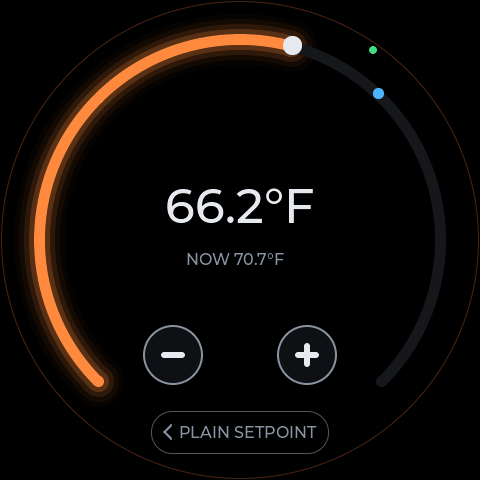
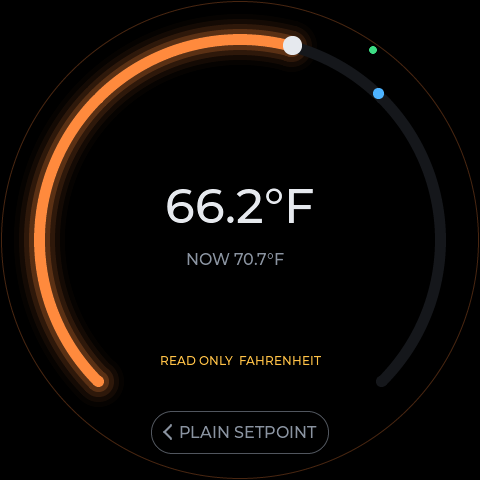
Screenshots: Lights with blinds/lock/contact/smoke/push tiles, thermostat mode and Fahrenheit setpoint shown read-only; confirm_mode demo dropped (the mode has no MCP tool)

Changed region(s): [[0.5, 0.6562, 0.7188, 0.8125], [0.2812, 0.6562, 0.4688, 0.8125]]

diff --git a/sim/src/apps_demo.c b/sim/src/apps_demo.c
@@ -168,7 +168,7 @@ const char *const apps_demo_names[] = {
   "climate_temp_f", "climate_wind_f", "climate_nounits", "climate_stale",
   "detail_climate_wind", "detail_thermo6", "detail_setpoint_plan", "detail_setpoint_nonow", "detail_radiator", "detail_evohome",
   "detail_mode", "detail_setpoint_f", "detail_setpoint_nounits",
-  "confirm_setpoint", "confirm_mode",
+  "confirm_setpoint",
   "detail_onoff", "detail_dimmer", "detail_selector", "detail_blinds", "detail_thermo", "detail_lock", "detail_push", "detail_info",
   "confirm_scene", "confirm_group_mixed", "confirm_lock",
   "fb_pending", "fb_confirmed", "fb_unconfirmed", "fb_failed",
@@ -206,8 +206,7 @@ static appfx_set_t set_for(const char *n) {
   if (!strcmp(n, "home_climate_f") || !strcmp(n, "climate_temp_f") || !strcmp(n, "climate_wind_f") || !strcmp(n, "detail_setpoint_f")) return APPFX_CLIMATE_IMPERIAL;
   if (!strcmp(n, "climate_nounits") || !strcmp(n, "detail_setpoint_nounits")) return APPFX_CLIMATE_NOUNITS;
   if (!strcmp(n, "home_climate") || !strncmp(n, "climate_", 8) || !strcmp(n, "detail_climate_wind") || !strcmp(n, "detail_thermo6") || !strncmp(n, "detail_setpoint", 15) ||
-      !strcmp(n, "detail_radiator") || !strcmp(n, "detail_evohome") || !strcmp(n, "detail_mode") || !strcmp(n, "confirm_setpoint") ||
-      !strcmp(n, "confirm_mode"))
+      !strcmp(n, "detail_radiator") || !strcmp(n, "detail_evohome") || !strcmp(n, "detail_mode") || !strcmp(n, "confirm_setpoint"))
     return APPFX_CLIMATE_METRIC;
   if (!strcmp(n, "home_favs_none")) return APPFX_MOCK_NOFAV;
   if (!strcmp(n, "home_favs_many")) return APPFX_MOCK;
@@ -277,11 +276,10 @@ ru_dzapp_t *apps_demo_show(appfx_t *f, const char *dir, const char *n) {
       {"detail_radiator", "123"}, {"detail_evohome", "124"}, {"detail_mode", "125"}, {"detail_setpoint_f", "118"},
       {"detail_setpoint_nounits", "118"}};
     for (size_t k = 0; k < sizeof det / sizeof det[0]; k++) if (!strcmp(n, det[k].name)) ru_dzapp_open(a, det[k].idx, false);
-  } else if (!strcmp(n, "confirm_setpoint") || !strcmp(n, "confirm_mode")) {
-    ru_dzapp_open(a, !strcmp(n, "confirm_mode") ? "125" : "118", false);
+  } else if (!strcmp(n, "confirm_setpoint")) {
+    ru_dzapp_open(a, "118", false);
     sim_render();
-    if (!strcmp(n, "confirm_setpoint")) click_at(c + ru_u(14), c + ru_u(24)); /* the + button: a setpoint always asks for a hold */
-    else click_at(c + ru_u(0), c - ru_u(30)); /* an upper selector segment */
+    click_at(c + ru_u(14), c + ru_u(24)); /* the + button: a setpoint always asks for a hold */
   } else if (!strcmp(n, "settings_conn")) ru_dzapp_open_sub(a, RU_SUB_CONNECTION);
   else if (!strcmp(n, "settings_bright")) ru_dzapp_open_sub(a, RU_SUB_BRIGHTNESS);
   else if (!strcmp(n, "settings_about")) ru_dzapp_open_sub(a, RU_SUB_ABOUT);
